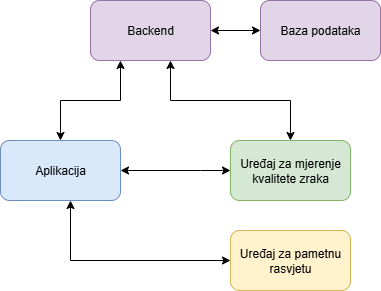
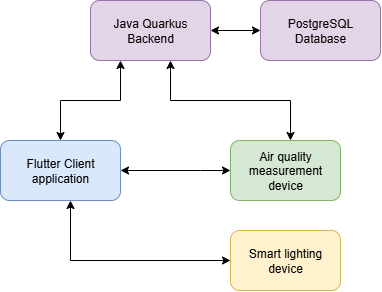
Update readme

diff --git a/README.md b/README.md
@@ -1,109 +1,68 @@
 
 # Smart Home
 
-Smart Home je sustav koji integrira razne IoT uređaje povezane unutar lokalne
-mreže. Sustav omogućuje upravljanje uređajima preko desktop ili mobilne aplikacije.
-Trenutno sustav uključuje uređaje za mjerenje kvalitete zraka i pametnu rasvjetu.
-Sustav je osmišljen na način da u budućnosti podrži dodavanje novih uređaja te
-da postoji samo jedna aplikacija za sve uređaje.
-Komunikacija s uređajima odvija se koristeći
-HTTP protokol i WebSocket tehnologiju.
+<p>
+  Smart Home is a system that integrates small IoT devices connected within a local network,
+  providing a simple user experience. Smart Home supports air quality measuring devices and
+  smart lighting. In the beginning, each device had its own application. That was not scalable
+  and those applications were integrated into this one.
+</p>
 
-### Mjerenje kvalitete zraka
+<p>Key highlights:</p>
+<ul>
+  <li>Caching the user profile and device list when the backend is not running</li>
+  <li>Support for a virtual air quality device for development without hardware</li>
+  <li>
+    Support for local execution of lighting logic because uploading the firmware takes time
+  </li>
+</ul>
 
-Uređaj za mjerenje kvalitete zraka mjeri temperaturu,
-vlažnost, tlak i koncentraciju PM2.5 čestice. Korisnik preko aplikacije može vidjeti trenutne i prošle vrijednosti. Uređaj lokalno sprema nedavna mjerenja, a po
-mogućnosti, može slati mjerenja na backend poslužitelj radi
-trajne pohrane. Uređaj se sastoji od ESP32 mikroupravljača,
-različitih senzora te RTC (eng. Real Time Clock) modula za praćenje sata.
+### Air quality measurement
 
-Dio aplikacije za taj uređaj je napravljen na način da podrži
-korištenje stvarnog uređaja i virtualnog uređaja koristeći Dependency injection.
+<ul>
+  <li>Air quality measurement (temperature, humidity, pressure, PM2.5)</li>
+  <li>Saving recent measurements on the device</li>
+  <li>Saving measurements to the database for permanent storage</li>
+  <li>Overview of device status (WiFi signal, RAM usage, etc.)</li>
+  <li>Manage device settings</li>
+  <li>Real and virtual device support for development without hardware</li>
+</ul>
 
-Neke značajke:
-* mjerenje kvalitete zraka (prosječna vrijednost, minimalna i maksimalna),
-* spremanje nedavnih mjerenja na uređaju,
-* spremanje mjerenja u bazu podataka,
-* pregled stanja uređaja (WiFi signal, iskorištenost RAM-a, itd.),
-* upravljanje postavkama uređaja,
-* podrška za stvarni i virtualni uređaj.
+### Smart lighting
 
-### Pametna rasvjeta
+<ul>
+  <li>Lighting control</li>
+  <li>Power consumption monitoring</li>
+  <li>Firmware update using OTA (Over-the-air)</li>
+  <li>Running the lighting effects code locally for faster development</li>
+</ul>
 
-Uređaj za pametnu rasvjetu pruža različite svjetlosne
-efekte i upravljanje rasvjetom putem aplikacije.
-Uređaj se sastoji od ESP32 mikroupravljača, modula s pametnim lampicama i senzora za potrošnju električne energije. Uređaj podržava ažuriranje ugradbenog programa
-preko aplikacije (OTA update).
+## Technology stack
+<ul>
+  <li><b>Frontend:</b> Flutter (Android, Windows)</li>
+  <li><b>Backend:</b> Java Quarkus</li>
+  <li><b>Embedded:</b> C++, Arduino, ESP32 microcontroller</li>
+  <li><b>Database:</b> PostgreSQL</li>
+</ul>
 
-Programski kod za izvođenje svjetlosnih efekata je dizajniran na način
-da se može izvršavati na samom mikroupravljaču, ali i na Windows operacijskom sustavu radi bržeg prototipiranja.
+## Architecture diagram
 
-## Dijagram arhitekture
+The client application communicates with the backend server and with each device.
+The air quality measurement device can send data to the backend for permanent storage.
 
-U nastavku je prikazan dijagram arhitekture sustava. Aplikacija
-komunicira s backend poslužiteljem i sa svakim uređajem. Uređaj
-za mjerenje kvalitete zraka može slati podatke radi spremanja
-u bazu.
+![Architecture diagram](misc/images/Architecture_Diagram.png)
 
-![Dijagram arhitekture](misc/images/Architecture_Diagram.png)
+## Repository structure
 
-## Tehnologije i oprema
+This mono repository contains several projects that make up the whole system.
 
-* Dart, Flutter
-* Java, Quarkus
-* C++, Arduino ESP32
-* PostgreSQL
-
-## Slike aplikacije
-
-### Početna stranica za povezivanje uređaja
-
-<img height="700" alt="Uređaji" src="misc/images/devices_page.jpg">
-
-### Kvaliteta zraka - početna
-
-<img height="700" alt="Kvaliteta zraka" src="misc/images/aq_home.jpg">
-
-### Kvaliteta zraka - mjerenja
-
-#### Uživo mjerenje kvaliete zraka kako pristižu podaci s uređaja
-
-<img width="700" alt="Mjerenja" src="misc/images/aq_live.png">
-
-#### Prikaz nedavnih mjerenja pohranjenih lokalno na uređaju
-
-<img width="700" alt="Mjerenja" src="misc/images/aq_recent.png">
-
-#### Povijesni podaci pohranjeni u bazi podataka
-
-<img width="700" alt="Mjerenja" src="misc/images/aq_history.png">
-
-### Kvaliteta zraka - napredno
-
-<img width="700" alt="Napredno" src="misc/images/aq_advanced_1.jpg">
-
-<img width="700" alt="Napredno" src="misc/images/aq_advanced_2.jpg">
-
-### Pametna rasvjeta - početna
-
-<img width="700" alt="Mjerenja" src="misc/images/leds_home.png">
-
-### Pametna rasvjeta - senzor energije
-
-<img width="700" alt="Mjerenja" src="misc/images/leds_power.png">
-
-### Pametna rasvjeta - postavke i OTA ažuriranje
-
-<img width="700" alt="Mjerenja" src="misc/images/leds_ota.png">
-
-## Struktura repozitorija
-
-Ovaj mono repozitorij sadrži više projekata koje čine Smart Home sustav, a u nastavku je ukratko objašnjen svaki projekt.
-
-| Mapa | Opis |
+| Directory | description |
 |-|-|
-| smart_home_app | Flutter projekt koji se odnosi na aplikaciju s kojom se upravljaju IoT uređaji. Struktura projekta je modularna radi lakšeg dodavanja novih uređaja. |
-| smart_home_backend | Backend poslužitelj koji je zadužen za upravljanje korisničkim uređajima i pohranjivanje kvalitete zraka. Tehnologija: Java Quarkus. |
-| air_qualiry_esp32 | PlatformIO projekt za ESP32 mikroupravljač koji se koristi za mjerenje kvalitete zraka. |
-| smart_leds_esp32 | PlatformIO projekt za ESP32 mikroupravljač koji se koristi za pametnu rasvjetu. |
-| misc | Razne skripte, pomoćni alati, slike. |
+| smart_home_app | Flutter project for the client application for controlling IoT devices. Uses a modular structure for easier addition of a new device. Each device is a separate Dart package. |
+| smart_home_backend | Backend using Java Quarkus |
+| air_qualiry_esp32 | Contains firmware for the air quality device based on ESP32. |
+| smart_leds_esp32 | Contains firmware for the smart lighting device based on ESP32. |
+| misc | Some scripts and helper tools. |
+
+## Project gallery
+* [Link to project gallery](https://jmojzes21.github.io/portfolio_page/projects/smart-home#gallery)
